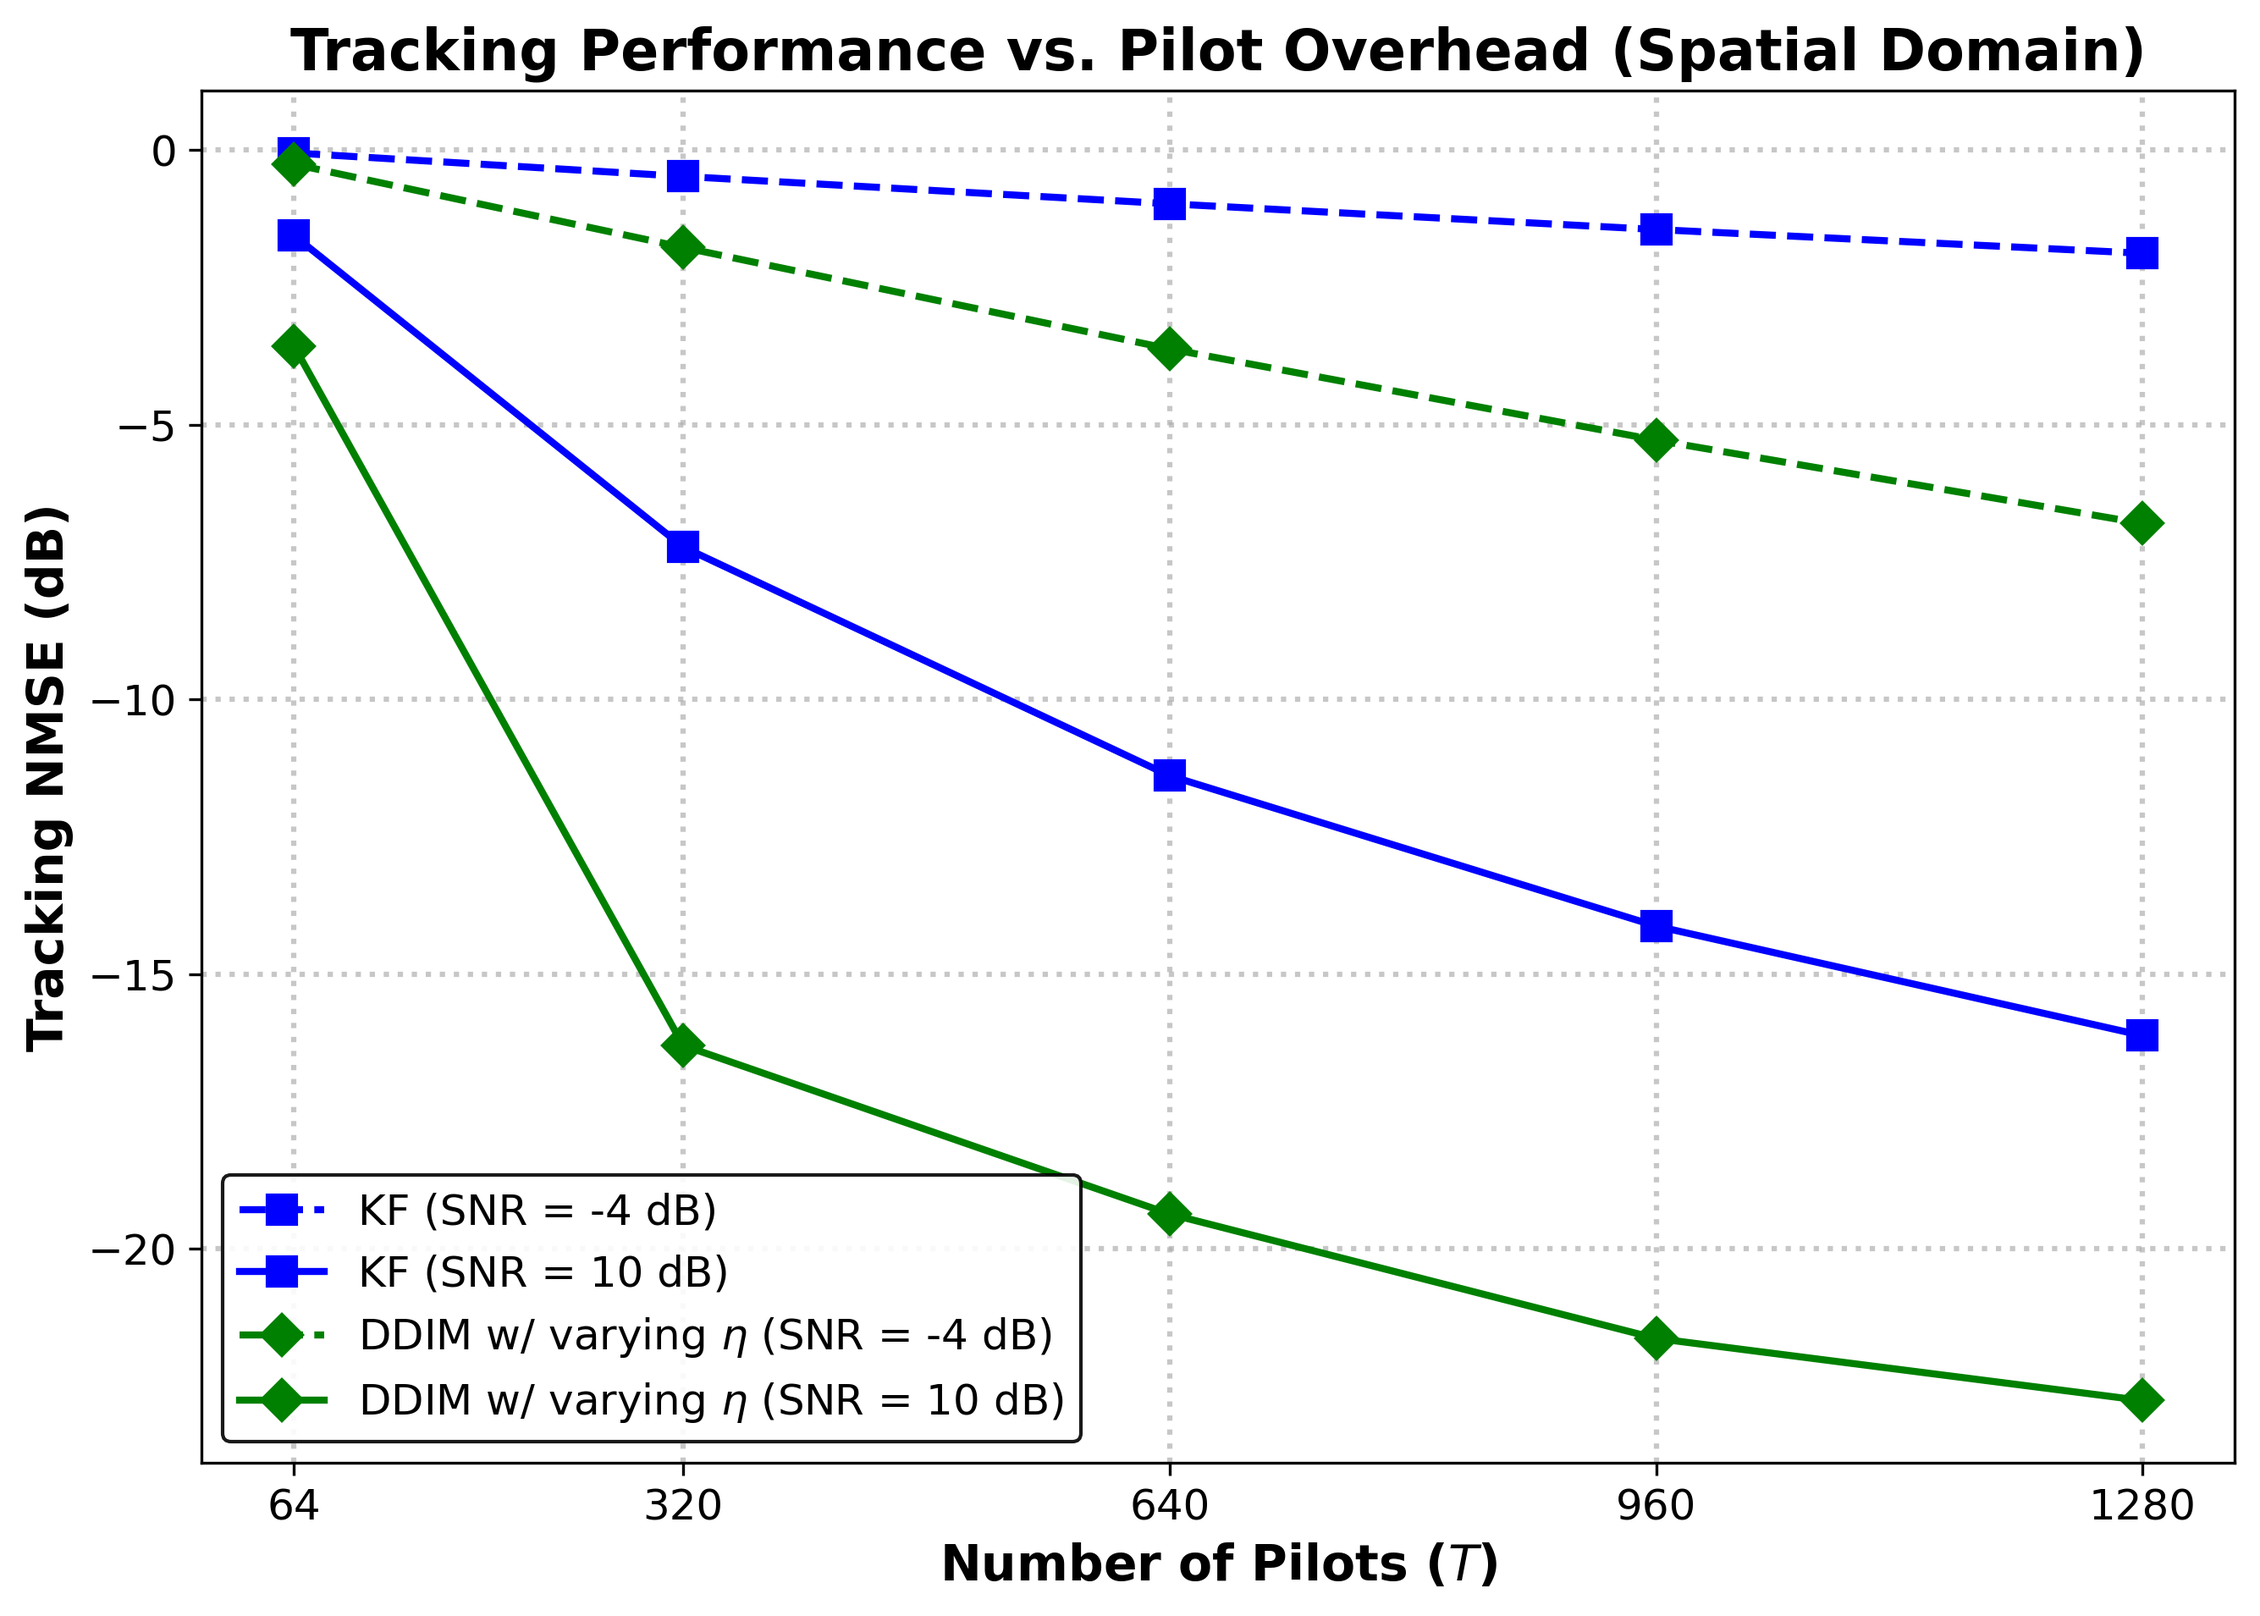
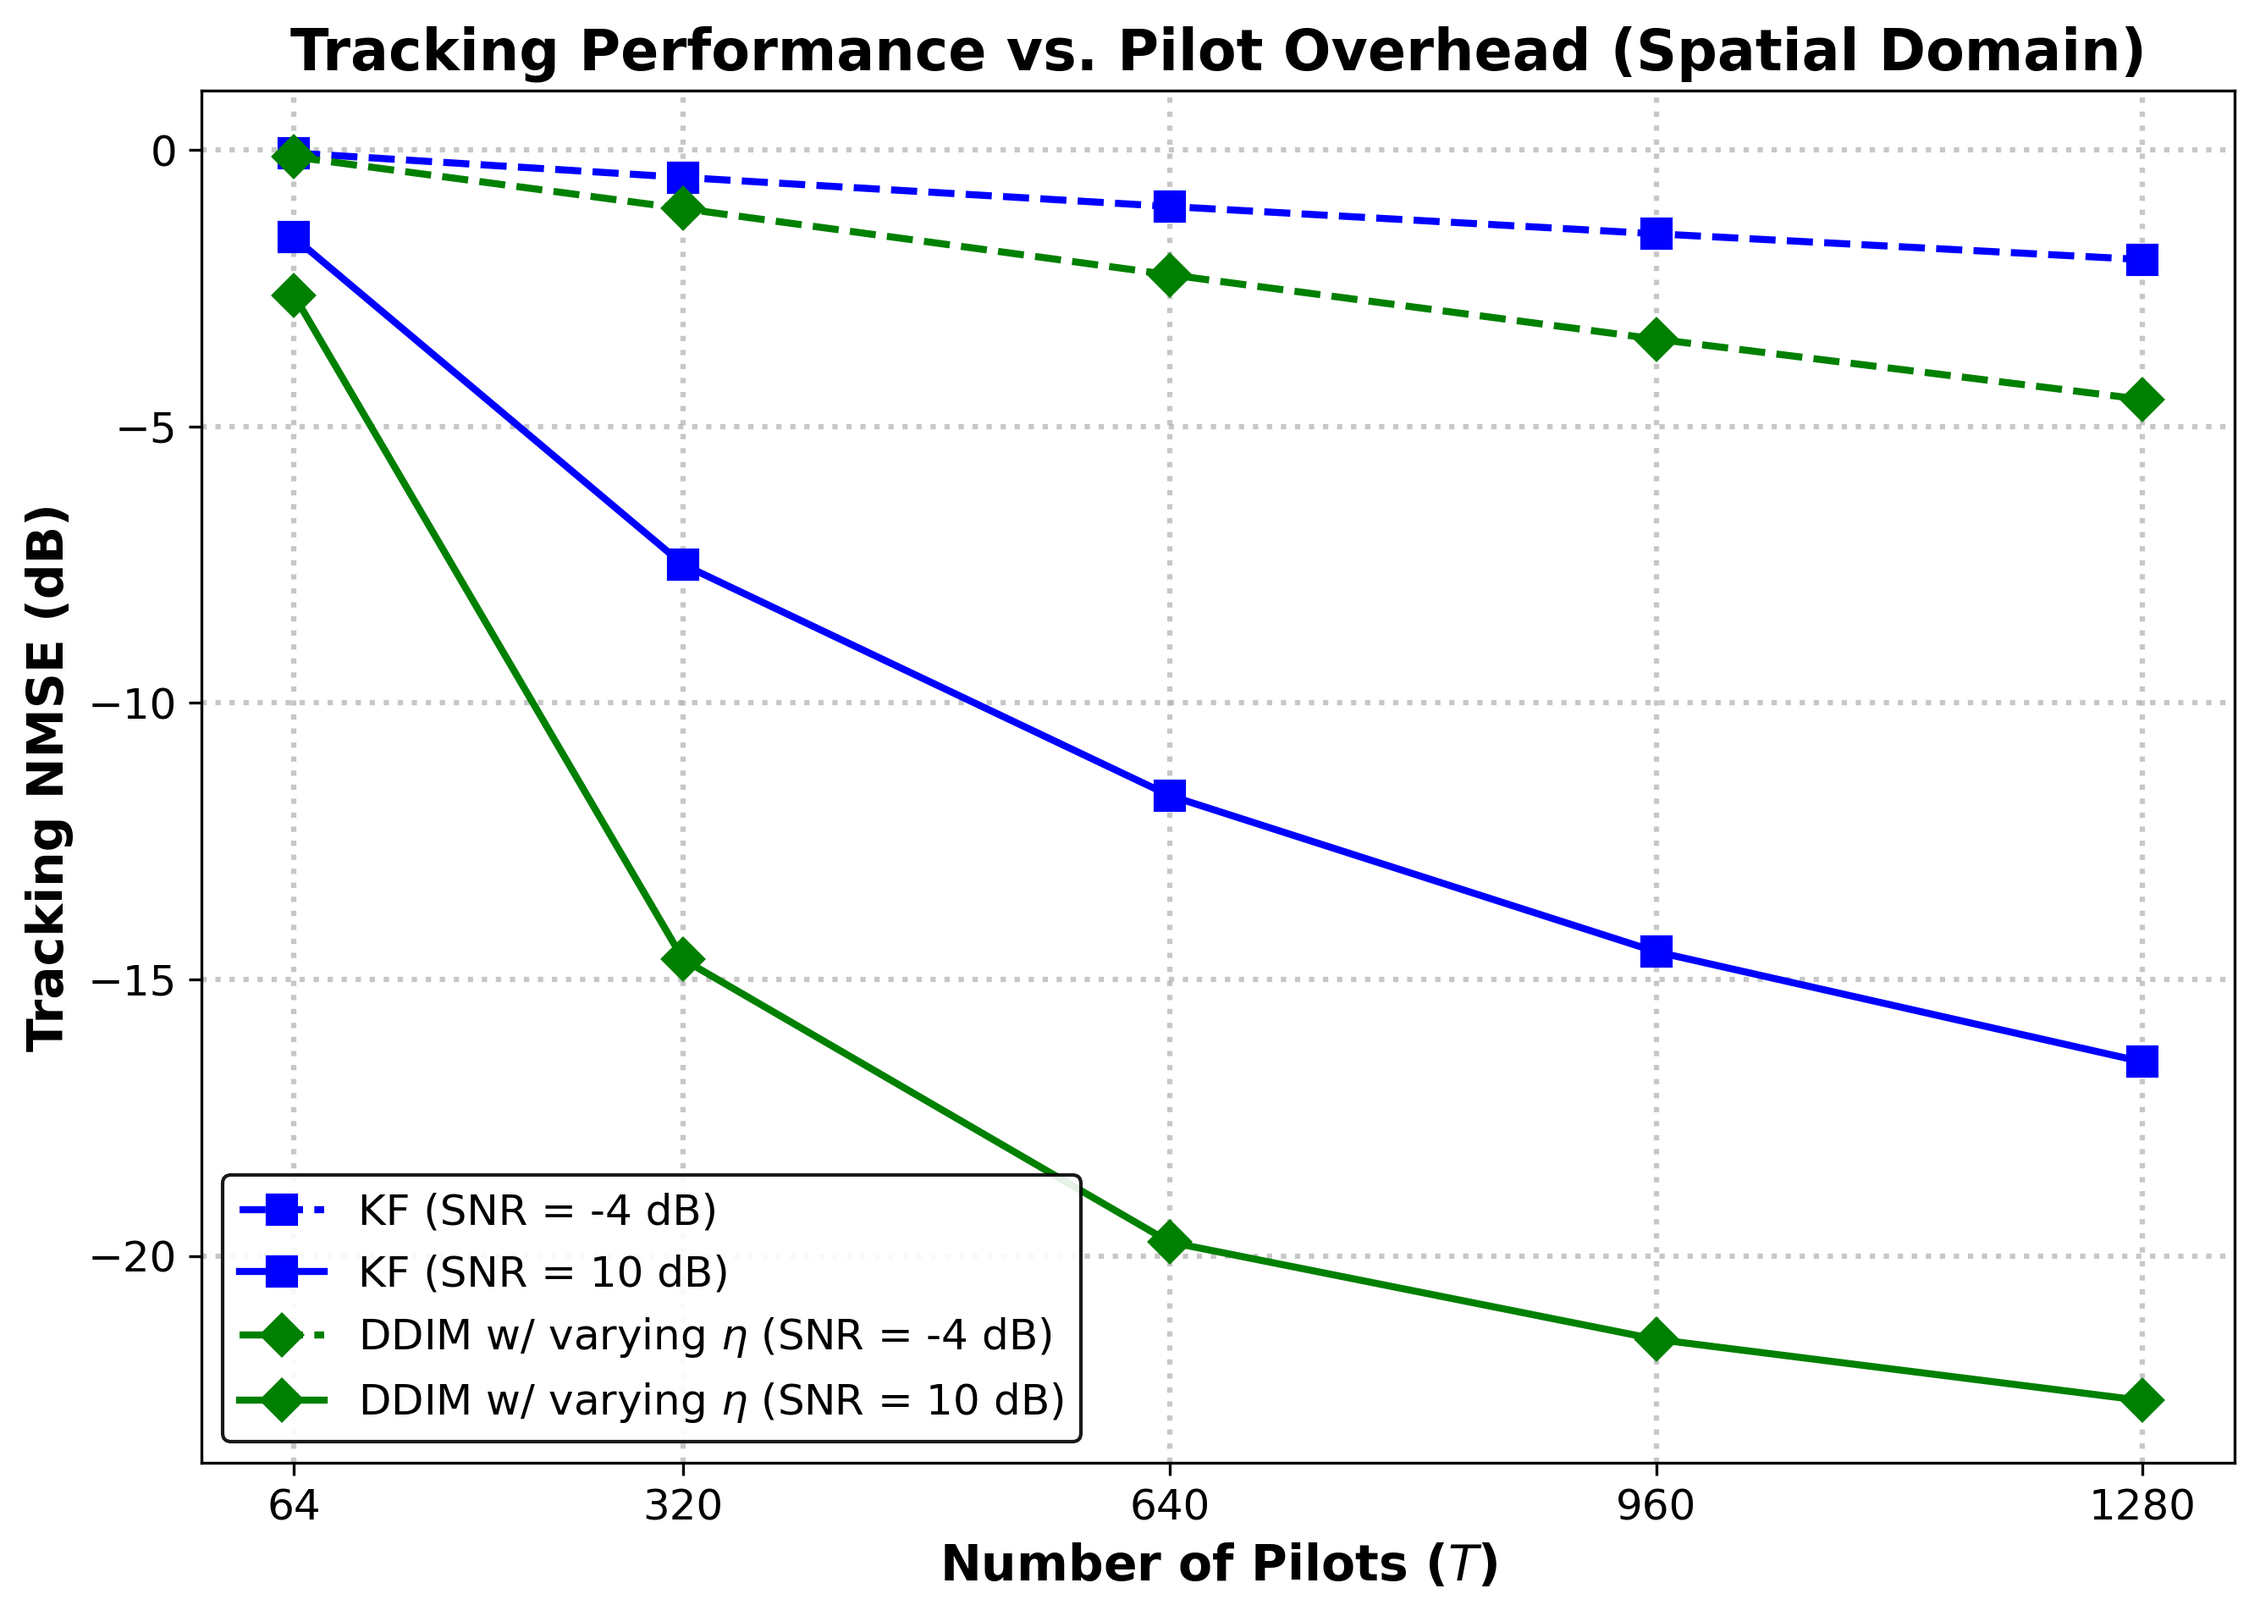
feat(pilots): update NMSE plots and highlight pilot lengths
Combines original commits: 459bafa e1ca464

diff --git a/small_scale_channel_tracking/test_results/NMSE_plot_T64vs128vs320.py b/small_scale_channel_tracking/test_results/NMSE_plot_T64vs128vs320.py
@@ -2,6 +2,7 @@ import matplotlib.pyplot as plt
 import os
 import scipy.io as sio
 import numpy as np
+from matplotlib.patches import Ellipse
 
 # =============================
 # 1. Configuration
@@ -113,11 +114,16 @@ def plot_and_save_metric(metric_type, title, ylabel, save_name_base, script_dir)
     """
     Plot and save .mat data for a single metric type.
     """
-    plt.figure(figsize=(8, 6))
+    fig, ax = plt.subplots(figsize=(8, 6)) # Changed to use ax for patch drawing
     data_found = False
 
     # For saving data for .mat export
     plot_data_export = {}
+    
+    # Store end points to draw ellipses around them later
+    # Format: { 'T_value': [ (x1, y1), (x2, y2) ] }
+    group_points = {'64': [], '128': [], '320': []}
+    target_snr = 10  # The SNR value where we will draw the circle/ellipse
     
     # get corresponding data key
     data_key = MAT_KEYS[metric_type]
@@ -142,7 +148,24 @@ def plot_and_save_metric(metric_type, title, ylabel, save_name_base, script_dir)
         data_found = True
         style = STYLES.get(label, {'linestyle': '-', 'marker': 'o'}) 
         legend_label = style.pop('label', label)
-        plt.plot(snrs, values, label=legend_label, **style)
+        ax.plot(snrs, values, label=legend_label, **style)
+
+        # ---------------------------------------------------------
+        # NEW: Find the y-value at our target SNR for grouping
+        # ---------------------------------------------------------
+        try:
+            idx = np.where(snrs == target_snr)[0][0]
+            y_val = values[idx]
+            
+            # Determine which T group this belongs to based on the label
+            if "T=64" in label:
+                group_points['64'].append(y_val)
+            elif "T=128" in label:
+                group_points['128'].append(y_val)
+            elif "T=320" in label:
+                group_points['320'].append(y_val)
+        except IndexError:
+            pass # target_snr not found in this array
 
         # prepare data for .mat export
         safe_label = label.replace(" ", "_").replace("-", "_")
@@ -157,14 +180,45 @@ def plot_and_save_metric(metric_type, title, ylabel, save_name_base, script_dir)
         plt.close()
         return
 
-    plt.title(title, fontsize=16, fontweight='bold')
-    plt.xlabel('SNR (dB)', fontsize=14)
-    plt.ylabel(ylabel, fontsize=14)
-    plt.grid(True, linestyle='--', alpha=0.7)
-    plt.legend(fontsize=12, loc='best')
+    # ---------------------------------------------------------
+    # NEW: Draw Ellipses and Add Text Labels
+    # ---------------------------------------------------------
+    # Define colors for the groups
+    group_colors = {'64': 'red', '128': 'red', '320': 'red'}
+    
+    for t_val, y_vals in group_points.items():
+        if len(y_vals) >= 2: # We need both KF and DDIM to draw a circle around them
+            # Calculate the center of the ellipse
+            y_center = np.mean(y_vals)
+            # Calculate the height of the ellipse to cover both points
+            y_diff = abs(max(y_vals) - min(y_vals))
+            
+            # Add some padding to width and height so it looks like a nice circle/ellipse
+            ellipse_width = 1.5   # Spread across the x-axis
+            ellipse_height = y_diff + 0.8  # Spread across the y-axis
+            
+            # Draw the Ellipse
+            ellipse = Ellipse((target_snr, y_center), width=ellipse_width, height=ellipse_height,
+                              fill=False, edgecolor=group_colors[t_val], linestyle='-', linewidth=1.5, alpha=0.8)
+            ax.add_patch(ellipse)
+            
+            # Add the "T=X" Text label right next to the ellipse
+            ax.text(target_snr + 1.0, y_center, f"T={t_val}", color=group_colors[t_val], 
+                    fontsize=12, fontweight='bold', va='center')
+
+
+    ax.set_title(title, fontsize=16, fontweight='bold')
+    ax.set_xlabel('SNR (dB)', fontsize=14)
+    ax.set_ylabel(ylabel, fontsize=14)
+    ax.grid(True, linestyle='--', alpha=0.7)
+    
+    # Put legend in the lower left so it doesn't overlap with the new circles
+    ax.legend(fontsize=12, loc='lower left') 
     
     if 'last_valid_snrs' in locals():
-        plt.xticks(last_valid_snrs)
+        # Extend x-axis slightly so the circles and text aren't cut off at the edge
+        ax.set_xlim([min(last_valid_snrs)-0.5, max(last_valid_snrs)+2.5])
+        ax.set_xticks(last_valid_snrs)
         
     plt.tight_layout()
     

diff --git a/small_scale_channel_tracking/data/generate_tracking_test_dataset_nondiag.py b/small_scale_channel_tracking/data/generate_tracking_test_dataset_nondiag.py
@@ -25,8 +25,8 @@ SNR_LEVELS = [-4, -2, 0, 2, 4, 6, 8, 10]
 # Tracking Physics Parameters
 RHO = 0.1034       # Base temporal correlation
 OFF_DIAG_STD = 0.2 # Standard deviation of the off-diagonal leakage
-NUM_PILOTS = 64   # T >= r_T
-MODE = 'modal' # 'spatial' or 'modal'
+NUM_PILOTS = 64*20   # T >= r_T
+MODE = 'spatial' # 'spatial' or 'modal'
 
 # Input Paths
 CHANNEL_FILE = os.path.join(SCRIPT_DIR, "channel", f"channel_data_SC_{FREQ_GHZ}GHz_{TX_DIM[0]}x{TX_DIM[1]}Tx_{RX_DIM[0]}x{RX_DIM[1]}Rx_{NUM_TEST_SAMPLES}samples.mat")

diff --git a/small_scale_channel_tracking/test_baseline_kalman_filter.py b/small_scale_channel_tracking/test_baseline_kalman_filter.py
@@ -11,7 +11,7 @@ SNR_LEVELS = [-4, -2, 0, 2, 4, 6, 8, 10]
 RHO = 0.1034
 FREQ_GHZ = 12
 R_T = 64
-NUM_PILOTS = 64
+NUM_PILOTS = 64*20
 MODE = 'spatial' # 'spatial' or 'modal'
 
 SCRIPT_DIR = os.path.dirname(os.path.abspath(__file__))

diff --git a/small_scale_channel_tracking/main_DDIM_tracker.py b/small_scale_channel_tracking/main_DDIM_tracker.py
@@ -17,7 +17,7 @@ R_T = 64
 NUM_SAMPLES = 1000000
 CUDA = 0
 CHAN_MODE = 'spatial' # 'spatial' or 'modal'
-NUM_PILOTS = 64
+NUM_PILOTS = 64*20
 
 # Training settings
 NUM_EPOCHS = 10000
